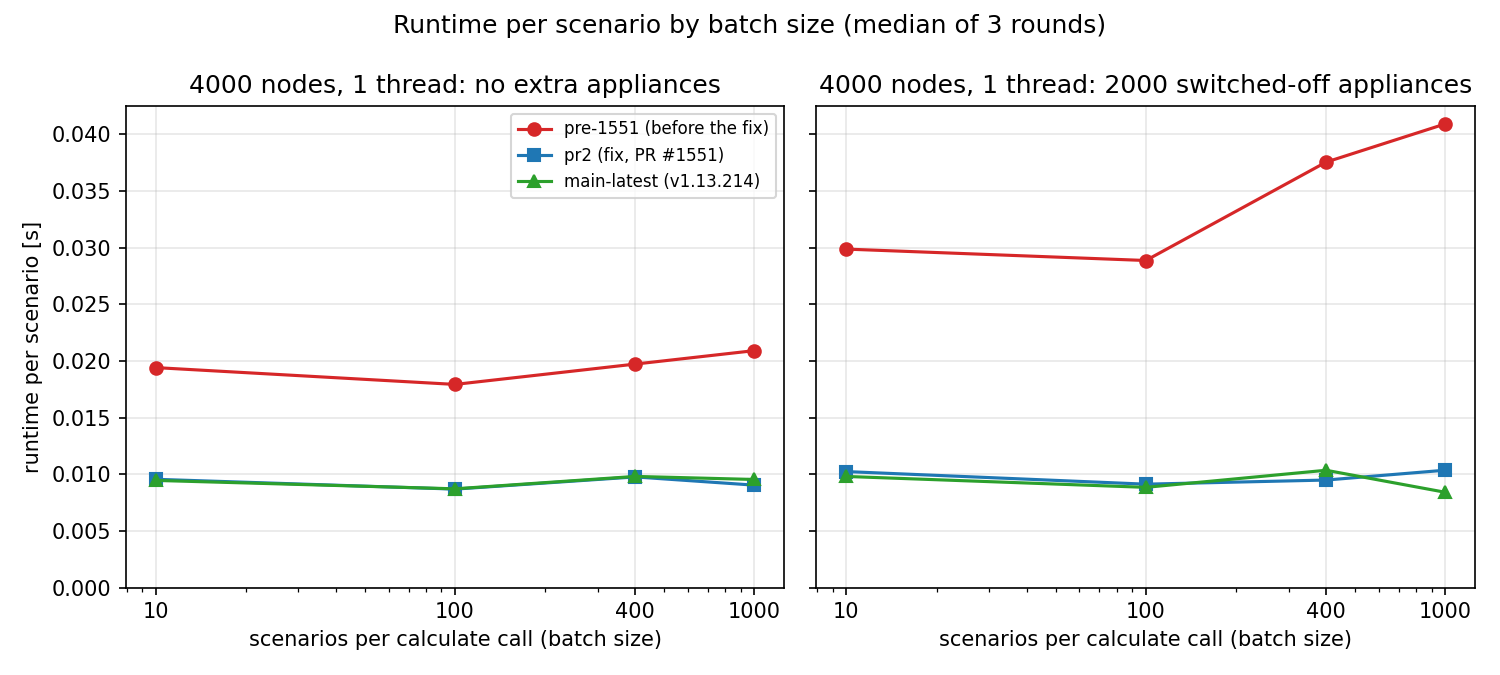
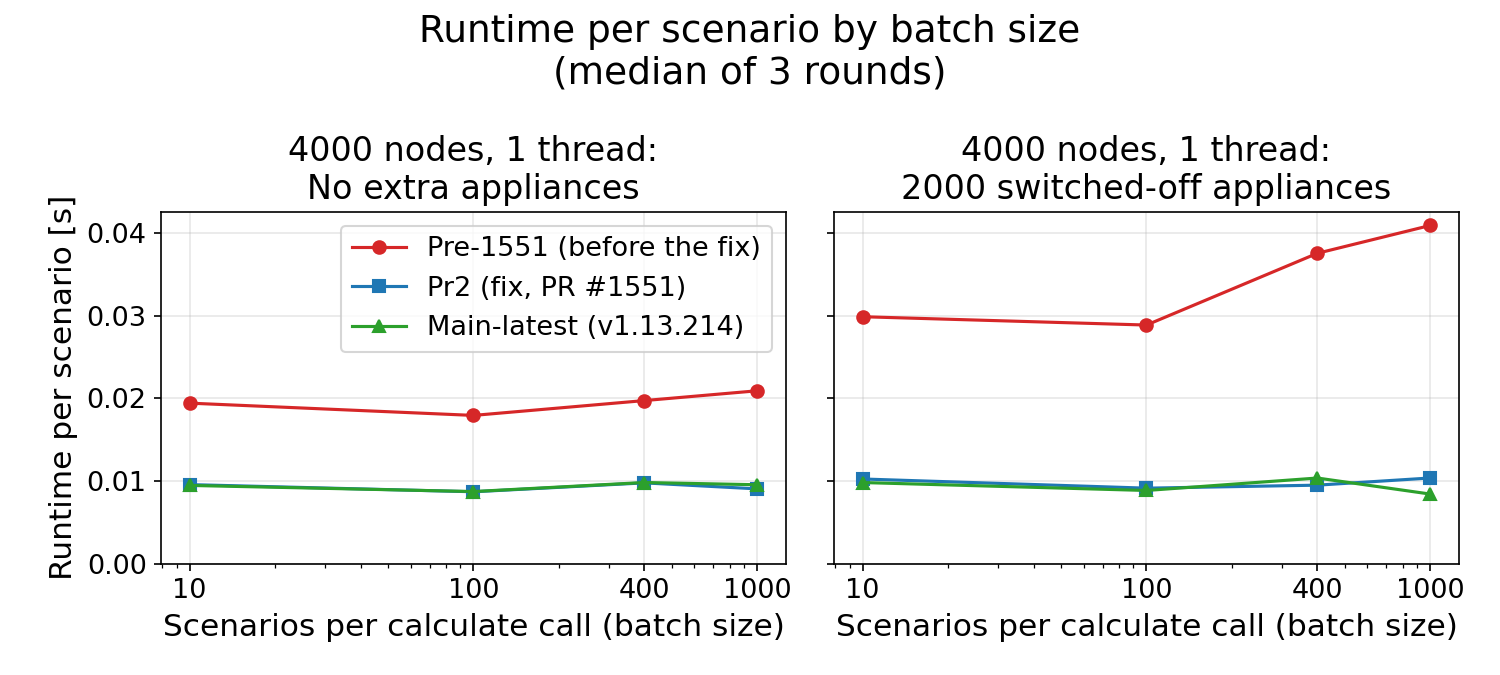
Make figure panes the same size; larger fonts; capitalised labels
All three figures use larger fonts and capitalised labels. The two extras
figures use identical canvas and pane sizes in inches, so they scale the same
on a slide or a page. The extras figure drops the 1000-node panel.

Claude-Session: https://claude.ai/code/session_01L4B9ZJqHevwufY76dKiLEY

diff --git a/benchmark/plot_results.py b/benchmark/plot_results.py
@@ -24,18 +24,29 @@ import matplotlib
 matplotlib.use("Agg")
 import matplotlib.pyplot as plt  # noqa: E402
 
+# Larger fonts: the plot area shrinks to make room for them.
+plt.rcParams.update({
+    "font.size": 14,
+    "axes.titlesize": 16,
+    "axes.labelsize": 15,
+    "xtick.labelsize": 13,
+    "ytick.labelsize": 13,
+    "legend.fontsize": 13,
+    "figure.titlesize": 18,
+})
+
 HERE = Path(__file__).parent
 RESULTS = HERE / "results"
 FIGURES = HERE / "figures"
 
 BUILDS = ["pre-1551", "pr2", "main-latest"]
 LABELS = {
-    "pre-1551": "pre-1551 (before the fix)",
-    "pr2": "pr2 (fix, PR #1551)",
-    "main-latest": "main-latest (v1.13.214)",
+    "pre-1551": "Pre-1551 (before the fix)",
+    "pr2": "Pr2 (fix, PR #1551)",
+    "main-latest": "Main-latest (v1.13.214)",
 }
 STYLE = {"pre-1551": ("tab:red", "o"), "pr2": ("tab:blue", "s"), "main-latest": ("tab:green", "^")}
-EXTRA_VARIANTS = [(None, "no extra appliances"), (0.0, "2000 appliances, all off"),
+EXTRA_VARIANTS = [(None, "No extra appliances"), (0.0, "2000 appliances, all off"),
                   (0.1, "2000 appliances, 10 % on"), (1.0, "2000 appliances, 100 % on")]
 
 
@@ -54,10 +65,28 @@ def medians(records: list[dict[str, Any]], key: str, per_scenario: bool = False)
     return {k: statistics.median(v) for k, v in groups.items()}
 
 
+PANEL_W, PANEL_H = 4.6, 3.0  # inches of one diagram pane: the same in every extras figure
+MARGIN_LEFT, MARGIN_RIGHT, GAP = 1.6, 0.3, 0.9  # the left margin holds the rotated first tick label
+MARGIN_TOP, MARGIN_BOTTOM = 1.0, 2.4  # bottom holds the tick labels and the legend
+
+
+def panel_figure(n: int, sharey: bool = False) -> tuple[plt.Figure, list[Any]]:
+    """Figure with n panes of fixed size in inches, so that every figure scales the same on a page or a slide."""
+    width = MARGIN_LEFT + n * PANEL_W + (n - 1) * GAP + MARGIN_RIGHT
+    height = MARGIN_BOTTOM + PANEL_H + MARGIN_TOP
+    fig = plt.figure(figsize=(width, height))
+    axes: list[Any] = []
+    for i in range(n):
+        left = (MARGIN_LEFT + i * (PANEL_W + GAP)) / width
+        share = axes[0] if sharey and axes else None
+        axes.append(fig.add_axes([left, MARGIN_BOTTOM / height, PANEL_W / width, PANEL_H / height], sharey=share))
+    return fig, axes
+
+
 def plot_extras_by_size(extras: list[dict[str, Any]]) -> None:
     """One panel per grid size; x = extras variant; one thread."""
     sizes = [4000, 8000]  # the 1000-node panel is left out on purpose
-    fig, axes = plt.subplots(1, len(sizes), figsize=(5 * len(sizes), 4.5), sharey=False)
+    fig, axes = panel_figure(len(sizes))
     sub = [r for r in extras if r["threads"] == 1]
     for ax, n in zip(axes, sizes):
         rows = [r for r in sub if r["n"] == n]
@@ -69,22 +98,22 @@ def plot_extras_by_size(extras: list[dict[str, Any]]) -> None:
             colour, marker = STYLE[build]
             ax.plot(range(len(EXTRA_VARIANTS)), values, marker=marker, color=colour, label=LABELS[build])
         ax.set_xticks(range(len(EXTRA_VARIANTS)))
-        ax.set_xticklabels([label for _, label in EXTRA_VARIANTS], rotation=25, ha="right", fontsize=8)
+        ax.set_xticklabels([label for _, label in EXTRA_VARIANTS], rotation=25, ha="right", fontsize=12)
         ax.set_title(f"{n} nodes, 1 thread")
-        ax.set_ylabel("runtime per run [s]")
+        ax.set_ylabel("Runtime per run [s]")
         ax.set_ylim(bottom=0)
         ax.grid(alpha=0.3)
-    axes[0].legend(fontsize=8)
-    fig.suptitle("Runtime of 100 scenarios by grid size and extra appliances (median of 3 rounds)")
-    fig.tight_layout()
+    handles, labels = axes[0].get_legend_handles_labels()
+    fig.suptitle("Runtime of 100 scenarios by grid size and extra appliances\n(median of 3 rounds)", y=0.98)
+    fig.legend(handles, labels, loc="lower center", ncol=3, bbox_to_anchor=(0.5, 0.0))
     fig.savefig(FIGURES / "fig_extras_by_size.png", dpi=150)
     plt.close(fig)
 
 
 def plot_extras_by_threads(extras: list[dict[str, Any]]) -> None:
     """Two panels for 4000 nodes: without extras and with 2000 switched-off appliances; x = threads."""
-    panels = [(None, "no extra appliances"), (0.0, "2000 switched-off appliances")]
-    fig, axes = plt.subplots(1, 2, figsize=(10, 4.5), sharey=True)
+    panels = [(None, "No extra appliances"), (0.0, "2000 switched-off appliances")]
+    fig, axes = panel_figure(2, sharey=True)
     for ax, (density, title) in zip(axes, panels):
         for build in BUILDS:
             pts = sorted(
@@ -100,21 +129,21 @@ def plot_extras_by_threads(extras: list[dict[str, Any]]) -> None:
         ax.set_xscale("log", base=2)
         ax.set_xticks([1, 4, 8, 12])
         ax.set_xticklabels(["1", "4", "8", "12"])
-        ax.set_xlabel("threads")
-        ax.set_title(f"4000 nodes, 100 scenarios: {title}")
+        ax.set_xlabel("Threads")
+        ax.set_title(f"4000 nodes, 100 scenarios:\n{title}")
         ax.grid(alpha=0.3)
-    axes[0].set_ylabel("runtime per run [s]")
+    axes[0].set_ylabel("Runtime per run [s]")
     axes[0].set_ylim(bottom=0)
-    axes[0].legend(fontsize=8)
-    fig.suptitle("Runtime by thread count (median of 3 rounds)")
-    fig.tight_layout()
+    handles, labels = axes[0].get_legend_handles_labels()
+    fig.suptitle("Runtime by thread count (median of 3 rounds)", y=0.98)
+    fig.legend(handles, labels, loc="lower center", ncol=3, bbox_to_anchor=(0.5, 0.0))
     fig.savefig(FIGURES / "fig_extras_by_threads.png", dpi=150)
     plt.close(fig)
 
 
 def plot_batch_size(batch: list[dict[str, Any]]) -> None:
     """Two panels: no extras and 2000 switched-off appliances; x = scenarios per call; y = time per scenario."""
-    panels = [(None, "no extra appliances"), (0.0, "2000 switched-off appliances")]
+    panels = [(None, "No extra appliances"), (0.0, "2000 switched-off appliances")]
     fig, axes = plt.subplots(1, 2, figsize=(10, 4.5), sharey=True)
     for ax, (density, title) in zip(axes, panels):
         sub = [r for r in batch if r["extra_density"] == density]
@@ -126,13 +155,13 @@ def plot_batch_size(batch: list[dict[str, Any]]) -> None:
         ax.set_xscale("log")
         ax.set_xticks([10, 100, 400, 1000])
         ax.set_xticklabels(["10", "100", "400", "1000"])
-        ax.set_xlabel("scenarios per calculate call (batch size)")
-        ax.set_title(f"4000 nodes, 1 thread: {title}")
+        ax.set_xlabel("Scenarios per calculate call (batch size)")
+        ax.set_title(f"4000 nodes, 1 thread:\n{title}")
         ax.grid(alpha=0.3)
-    axes[0].set_ylabel("runtime per scenario [s]")
+    axes[0].set_ylabel("Runtime per scenario [s]")
     axes[0].set_ylim(bottom=0)
-    axes[0].legend(fontsize=8)
-    fig.suptitle("Runtime per scenario by batch size (median of 3 rounds)")
+    axes[0].legend()
+    fig.suptitle("Runtime per scenario by batch size\n(median of 3 rounds)")
     fig.tight_layout()
     fig.savefig(FIGURES / "fig_batch_size.png", dpi=150)
     plt.close(fig)
